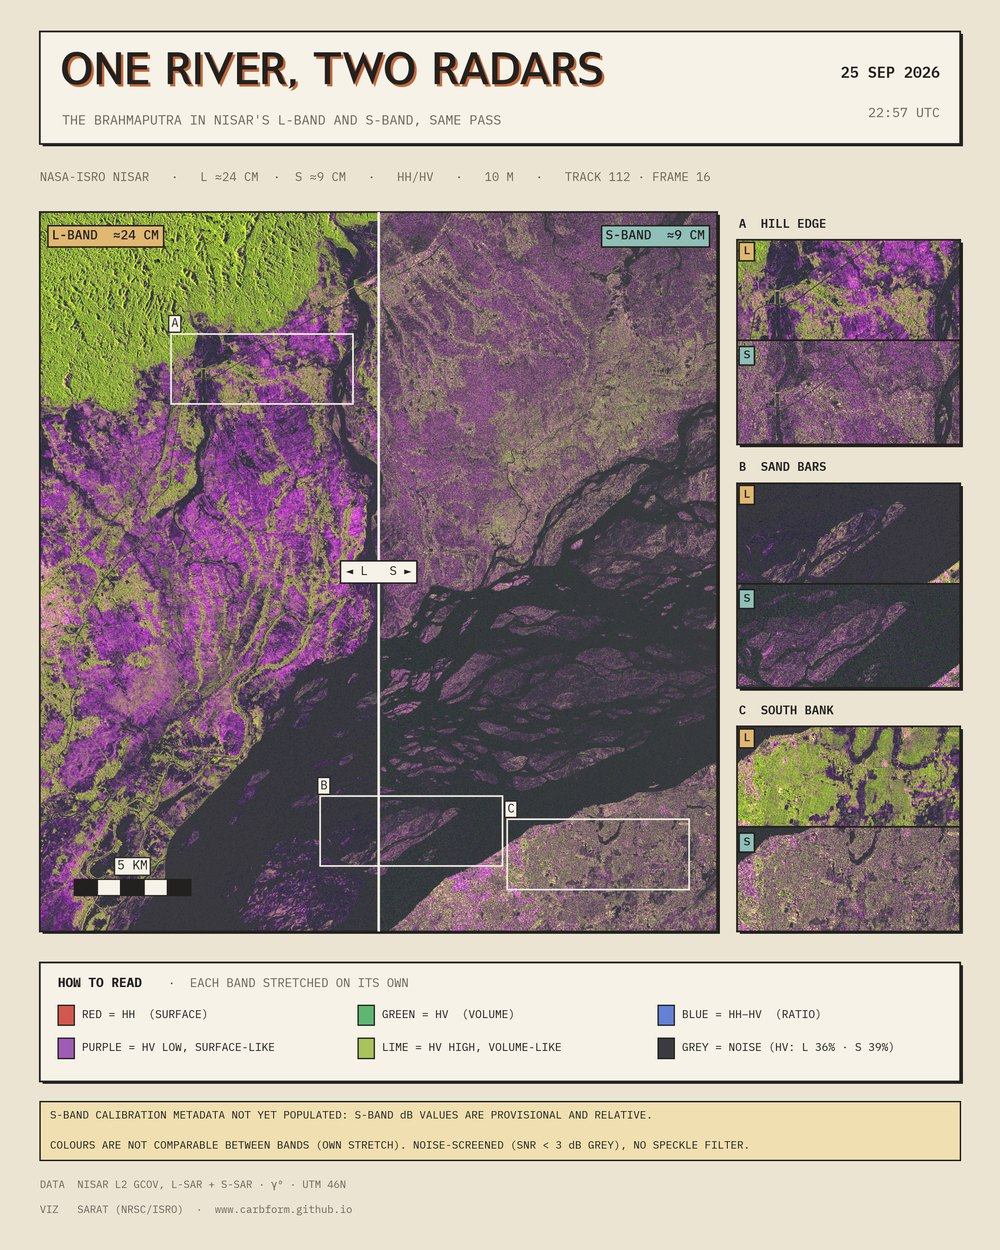
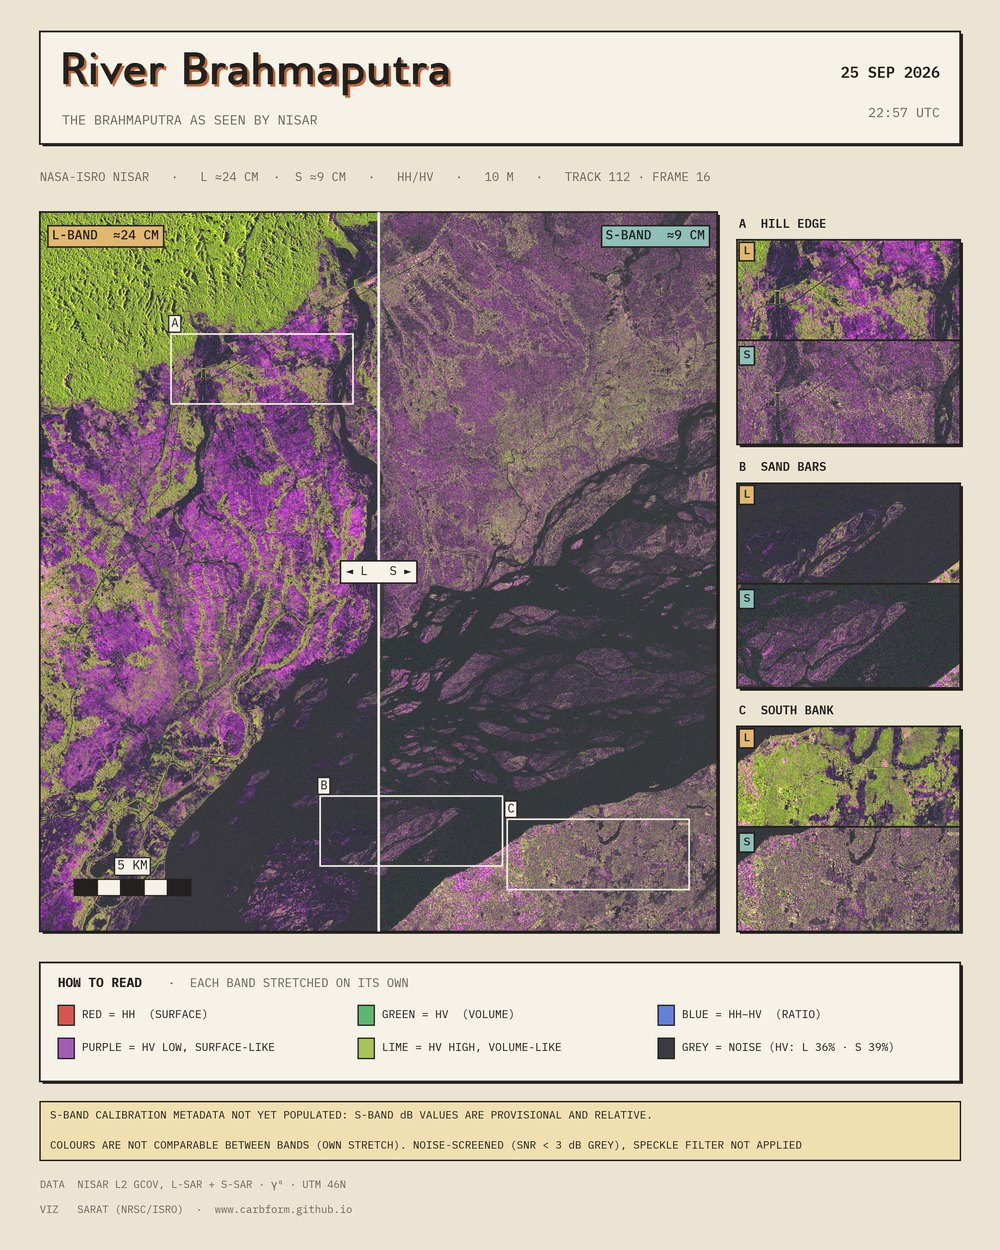
Social layout: new title, subtitle and speckle-filter wording
Title "River Brahmaputra", subtitle "THE BRAHMAPUTRA AS SEEN BY NISAR", and the speckle
note reworded. Refresh the README preview and example to match.

Changed region(s): [[0.062, 0.0312, 0.62, 0.1248], [0.651, 0.9048, 0.806, 0.936]]

diff --git a/README.md b/README.md
@@ -71,14 +71,14 @@ legend, the bottom notes, the credits and the publication captions. Edit them fr
 ```toml
 # layouts/ls_social.toml
 [header]
-title = "ONE RIVER, TWO RADARS"
-subtitle = "THE {name_upper} IN NISAR'S L-BAND AND S-BAND, SAME PASS"
+title = "River Brahmaputra"
+subtitle = "THE {name_upper} AS SEEN BY NISAR"
 date = "{date_upper}"                      # <- from the file, not typed
 info_line = "... TRACK {track} · FRAME {frame}"
 [notes]
 lines = [
   { if = "uncal_bands", text = "{uncal_bands_upper} CALIBRATION METADATA NOT YET POPULATED ..." },
-  "NOISE-SCREENED (SNR < 3 dB GREY), NO SPECKLE FILTER.",
+  "{stretch_warning_upper} NOISE-SCREENED (SNR < 3 dB GREY), SPECKLE FILTER NOT APPLIED",
 ]
 ```
 
